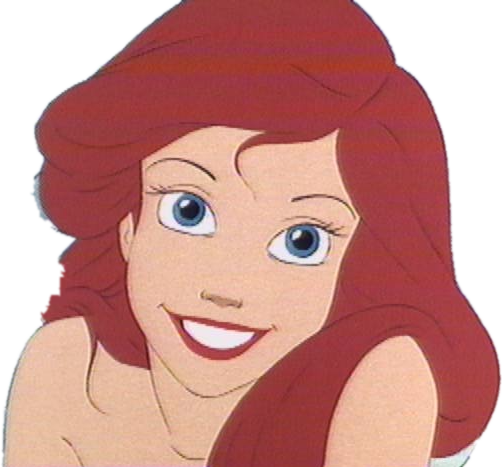
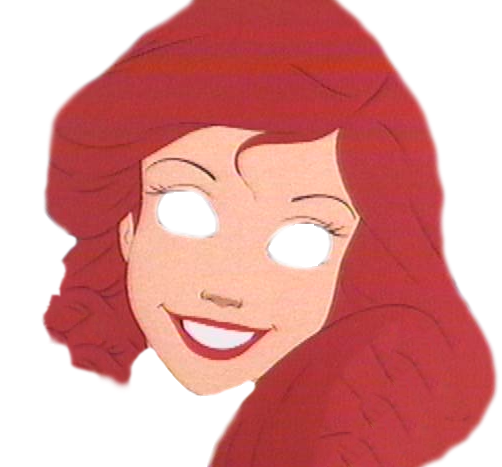
updata

diff --git a/gui.py b/gui.py
@@ -3,13 +3,20 @@ from tkinter.ttk import Frame, Button, Style
 from PIL import Image, ImageTk
 import detector
 import cv2
+import random
+
+global_name = ""
 
 
-def init():
-    return detector.init()
+def init(mask_name='mermaid'):
+    return detector.init(mask_name)
 
 
-def callback(vs, pipline, label, root):
+def callback(name, vs, pipline, fd, label, root):
+    global global_name
+    if global_name != name:
+        pipline = detector.replace_faces(name, fd)
+    global_name = name
     frame = detector.create(vs, pipline)
     cv2_im = cv2.cvtColor(frame, cv2.COLOR_BGR2RGB)
     img = Image.fromarray(cv2_im)
@@ -17,12 +24,12 @@ def callback(vs, pipline, label, root):
     label.configure(image=img2)
     label.image = img2
     root.update()
-    root.after(1000, callback(vs, pipline, label, root))
+    root.after(1000, callback(name, vs, pipline, fd, label, root))
 
 
 def main():
-    vs, pipeline = init()
-
+    vs, pipeline, fd, image_names = init('mermaid')
+    image_names = [path for (name, path) in image_names]
     root = Tk()
     root.geometry("600x600")
 
@@ -40,19 +47,26 @@ def main():
     s.configure("Visible.TButton", foreground="red", background="pink")
 
     image = Image.open("../faces.jpeg")
+    name_one = 'mermaid'
     photo = ImageTk.PhotoImage(image)
-    b = Button(root, image=photo, style="Visible.TButton", cursor="dot")
+    b = Button(root, image=photo, style="Visible.TButton", cursor="dot",
+               command=lambda: callback(name_one, vs, pipeline, fd, label, root))
     b.pack(side=LEFT, expand=1)
+
+    # add_buttom(name_one, "../faces.jpeg", vs, pipeline, fd, label, root)
 
     image1 = Image.open("../m_bg.png")
     photo1 = ImageTk.PhotoImage(image1)
+    name_two = 'pakahontas'
     b1 = Button(root, image=photo1, style="Visible.TButton", cursor="dot",
-                command=lambda: callback(vs, pipeline, label, root))
+                command=lambda: callback(name_two, vs, pipeline, fd, label, root))
     b1.pack(side=LEFT, expand=1)
 
     image2 = Image.open("../mermaid_1.jpg")
+    name_tree = 'shrek'
     photo2 = ImageTk.PhotoImage(image2)
-    b2 = Button(root, image=photo2, style="Visible.TButton", cursor="dot")
+    b2 = Button(root, image=photo2, style="Visible.TButton", cursor="dot",
+                command=lambda: callback(name_tree, vs, pipeline, fd, label, root))
     b2.pack(side=LEFT, expand=1)
 
     scrollbar = Scrollbar(root, orient=HORIZONTAL)

diff --git a/effects/mask.py b/effects/mask.py
@@ -4,7 +4,7 @@ import cv2
 import numpy as np
 import effects.effect as effect
 import effects.face as face
-
+import random
 
 def get_transposition(pts1, pts2):
     """
@@ -54,6 +54,7 @@ class Loader:
         marks_path = './data/mask_landmarks'
         images, marks = {}, {}
 
+        list_name_mask = {}
         for name, path in _traverse_dir(marks_path):
             data = np.genfromtxt(path, delimiter=',', loose=True, invalid_raise=False)
             if data is not None and data.size > 0:
@@ -61,7 +62,6 @@ class Loader:
 
         for name, path in _traverse_dir(images_path):
             image = cv2.imread(path, cv2.IMREAD_COLOR)
-
             if image is not None:
                 if name in marks:
                     images[name] = image, marks[name]
@@ -69,8 +69,8 @@ class Loader:
                 faces = self.detector.detect(image)
                 if len(faces) > 0:
                     images[name] = image, faces[0]
-
-        return images
+            list_name_mask[name] = path
+        return images, list_name_mask
 
 
 class PlainImposter(effect.Effect):
@@ -79,9 +79,21 @@ class PlainImposter(effect.Effect):
         self.markup = mask_markup
         self.markup_align = mask_markup[face.ALIGN_POINTS]
         self.detector = detector
+        # self.name_all_mask = name_all_mask
+        # move = [[0, 0, -10],
+        #         [0, 0, -125], # -50
+        #         [0, 0, 0]]
+        move = [[0, 0, 0],
+                [0, 0, 30],  # -50
+                [0, 0, 0]]
+        # move = [[0., 0, -10],
+        #         [0, 0.1, 0], # -50
+        #         [0, 0, 0]]
+        self.move = np.array(move)
 
     def __warp_im(self, transposition, dshape):
         res = np.zeros(dshape, dtype=self.image.dtype)
+        transposition += self.move
         cv2.warpAffine(self.image,
                        transposition[:2],
                        (dshape[1], dshape[0]),
@@ -101,5 +113,4 @@ class PlainImposter(effect.Effect):
             res[:] = np.bitwise_and(res, alpha)
             warped_im2[:] = np.bitwise_and(warped_im2[:], beta)
             res += warped_im2
-
         return res

diff --git a/detector.py b/detector.py
@@ -10,34 +10,42 @@ import effects.face as face
 import effects.mask as mask
 
 
-def create_effect_pipeline(detector, face_detector):
-    masks = mask.Loader(detector=face_detector).load()
-    mermaid = masks['mermaid']
+def create_effect_pipeline(face_detector, mask_name):
+    masks, names = mask.Loader(detector=face_detector).load()
+    mermaid = masks[mask_name]
     mask_imposter = mask.PlainImposter(mermaid[0], mermaid[1], face_detector)
 
     pipeline = effect.Pipeline()
     pipeline.add_list([mask_imposter])
 
-    return pipeline
+    return pipeline, names
 
 
-def init():
+def replace_faces(faces_name, face_detector):
+    print("replace name on" + faces_name)
+    return create_effect_pipeline(face_detector, faces_name)
+
+
+def init(mask_name):
     # initialize dlib's face detector (HOG-based) and then create
     # the facial landmark predictor
     print('[INFO] loading facial landmark predictor...')
     face_detector = face.Detector()
-    pipeline = create_effect_pipeline(face_detector, face_detector)
+    pipeline, image_names = create_effect_pipeline(face_detector, mask_name)
 
     # initialize the video stream and allow the cammera sensor to warmup
     print('[INFO] camera sensor warming up...')
     vs = VideoStream().start()
     time.sleep(2.0)
-    return vs, pipeline
+    return vs, pipeline, face_detector, image_names
 
 
 def create(vs, pipeline):
     im1 = vs.read()
     im1 = imutils.resize(im1, width=400)
+    print(pipeline)
+    if hasattr(pipeline, '__len__') and len(pipeline) > 1:
+        pipeline = pipeline[0]
     res = pipeline.process(im1)
     key = cv2.waitKey(1) & 0xFF
     if key == ord('q'):

diff --git a/effects/face.py b/effects/face.py
@@ -39,5 +39,4 @@ class Detector:
             parts = self.predictor(image, rect).parts()
             points = np.matrix([[p.x, p.y] for p in parts])
             faces.append(points)
-
         return faces
